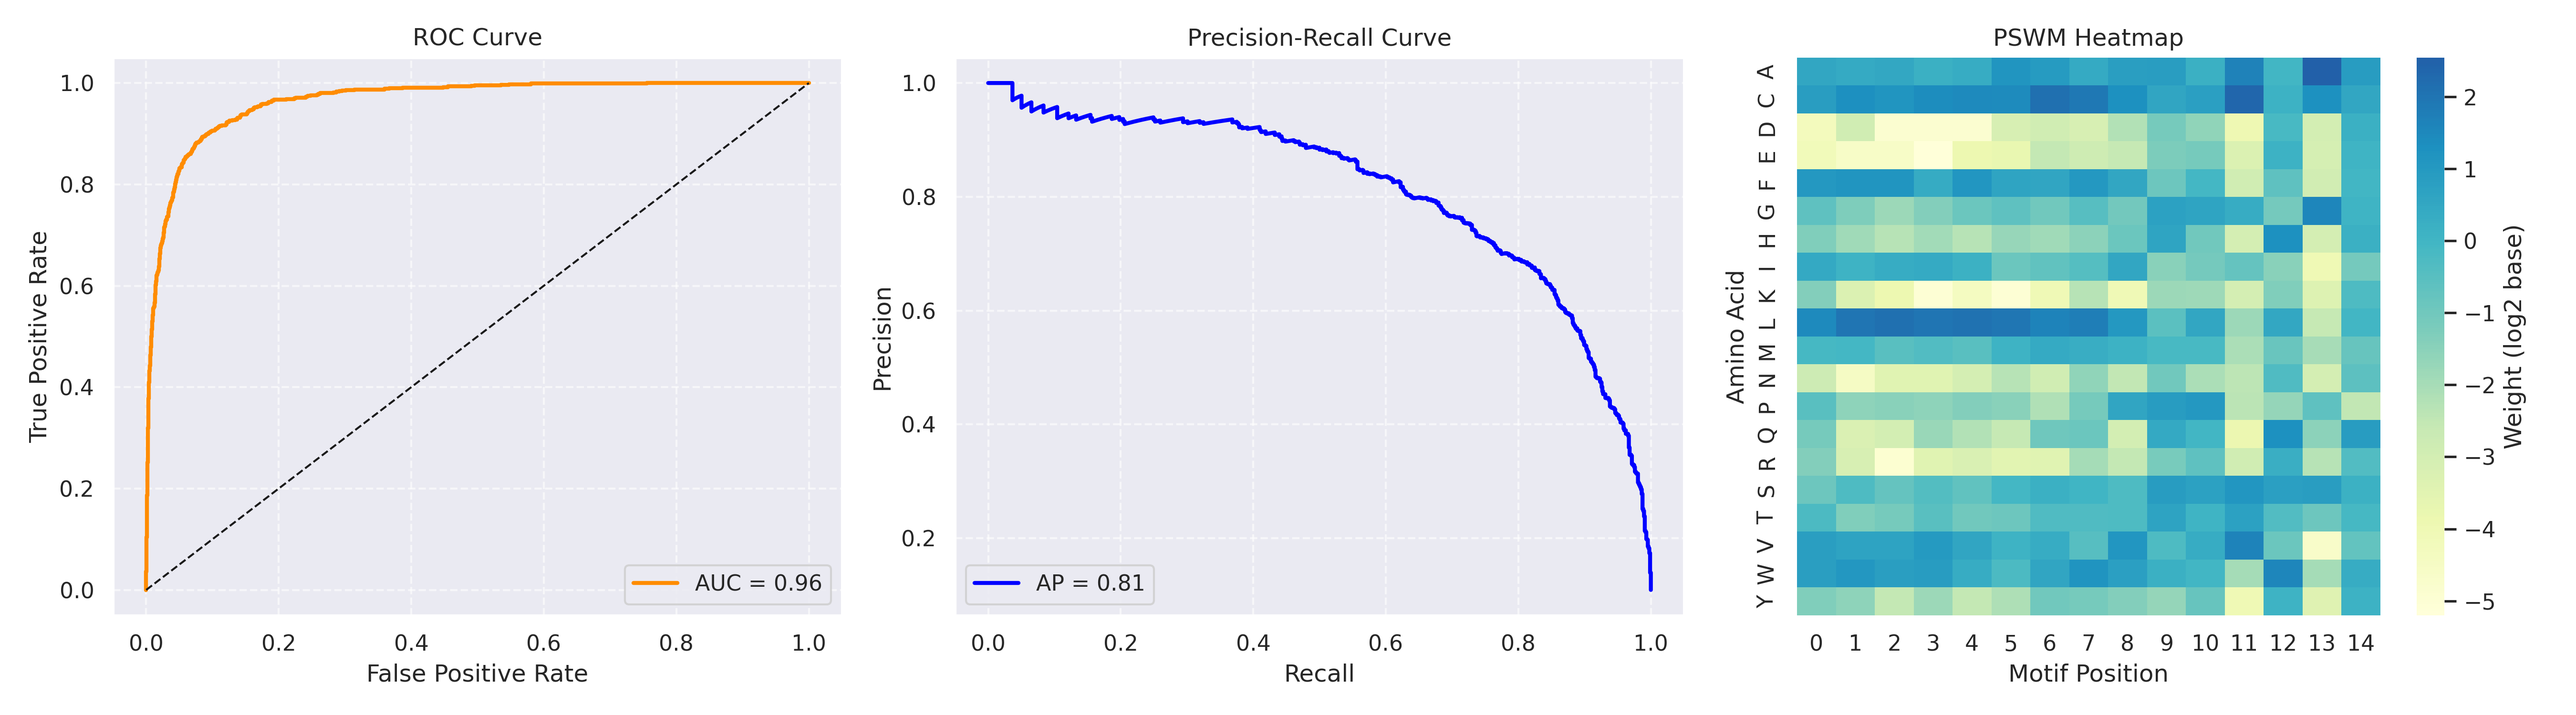
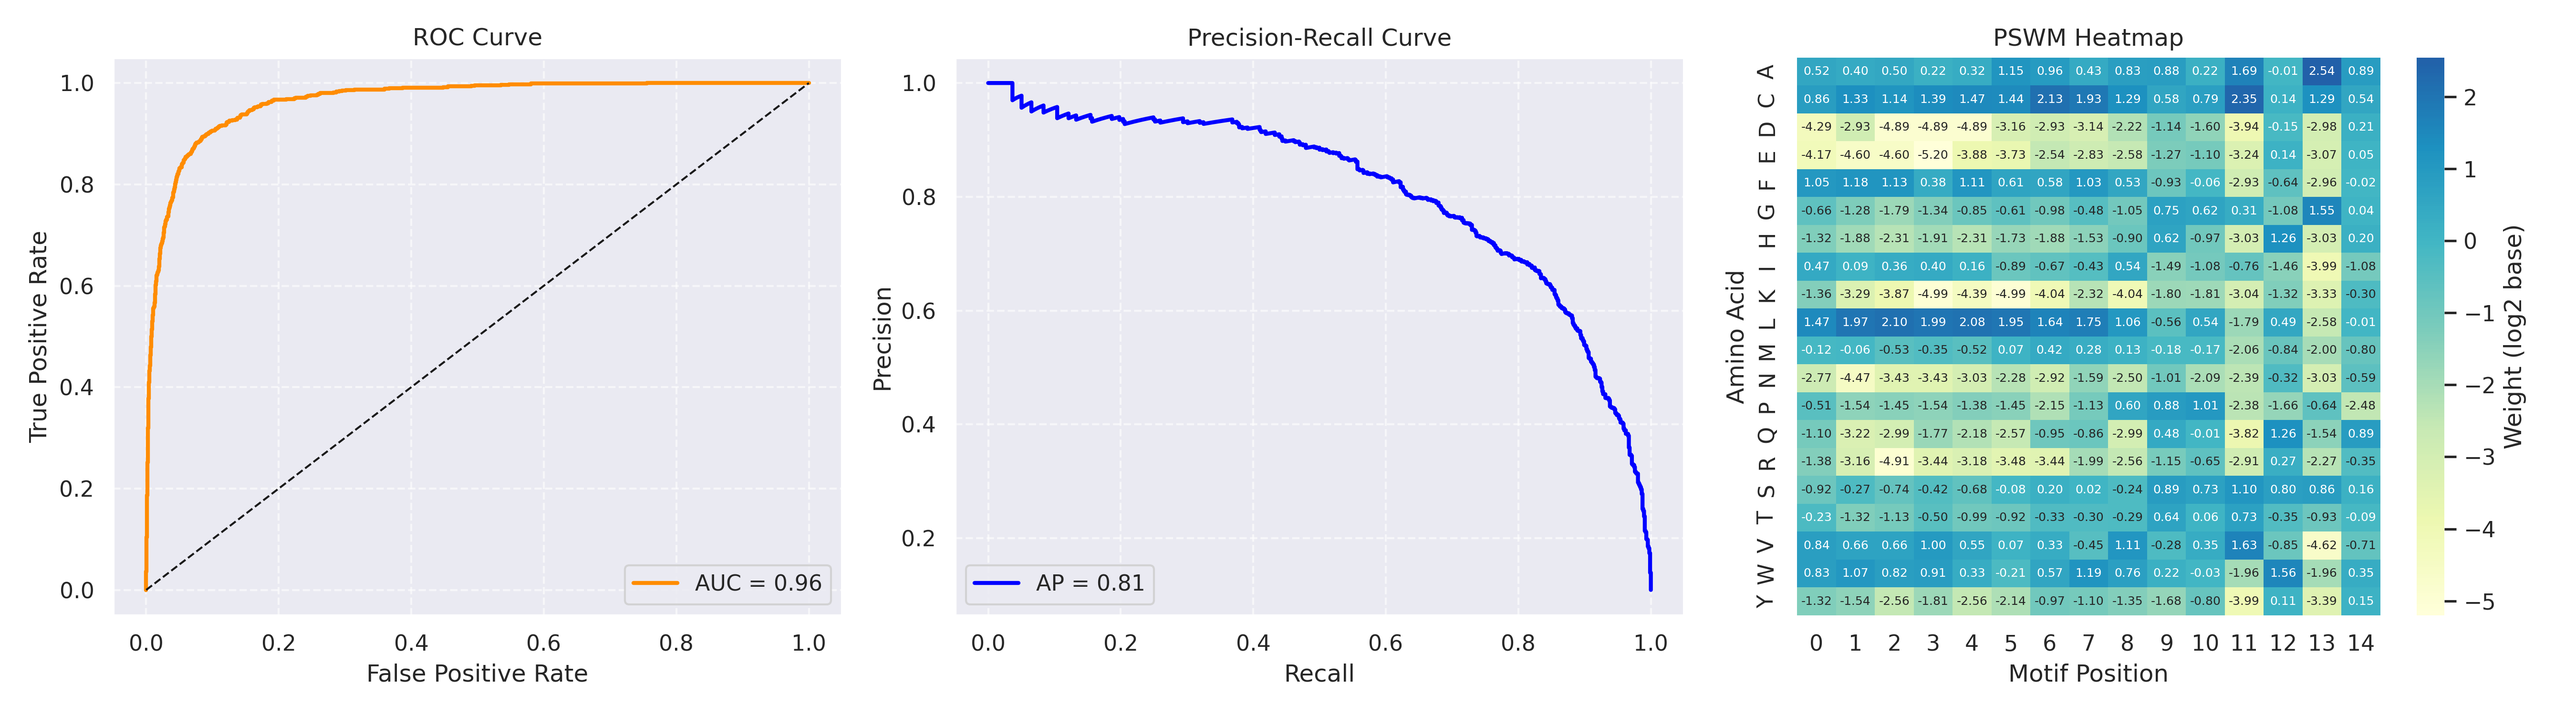
Heatmap created again with scores!

diff --git a/model_training/model_creation.py b/model_training/model_creation.py
@@ -212,7 +212,7 @@ def cross_validation(df, fasta_dir="../data_collection/fasta/"):
     axes[1].legend(loc="lower left")
     axes[1].grid(True, linestyle="--", alpha=0.6)
 
-    sns.heatmap(df_pswm_avg, cmap="YlGnBu", center=0,
+    sns.heatmap(df_pswm_avg, cmap="YlGnBu", center=0,annot=True,fmt=".2f",annot_kws={"size":6},
             cbar_kws={'label': 'Weight (log2 base)'}, ax=axes[2])
     axes[2].set_xlabel("Motif Position")
     axes[2].set_ylabel("Amino Acid")

diff --git a/model_training/README.md b/model_training/README.md
@@ -9,4 +9,5 @@
 | F1 Score   | 0.7309 ± 0.0132 |
 
 
+### Combined Performance Metrics Visualization
 ![Model combined metrics](combined_model_metrics.png)
